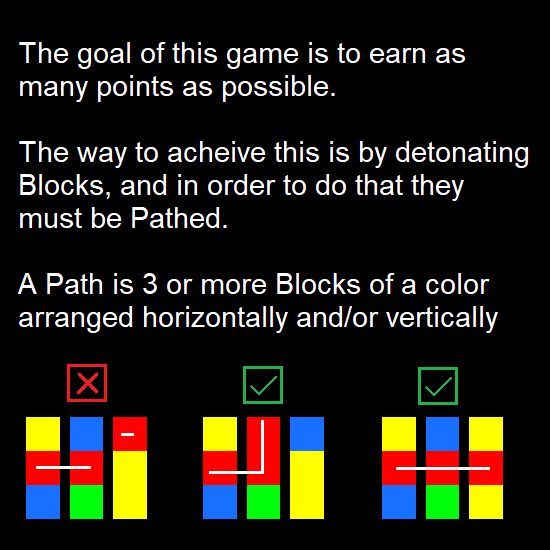
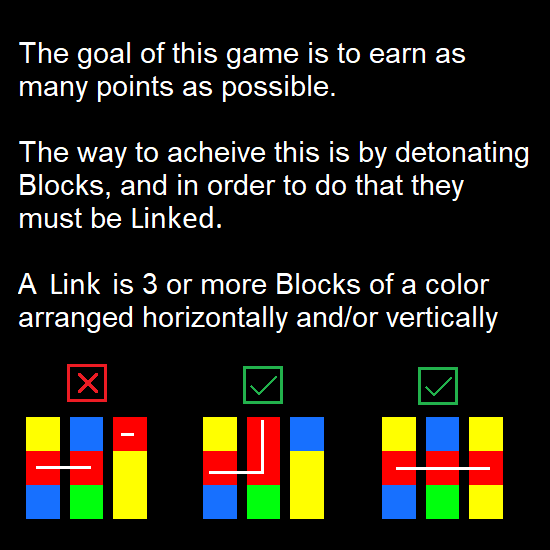
fixed some tutorials

Changed region(s): [[0.2164, 0.3709, 0.4018, 0.4327], [0.0618, 0.4945, 0.1855, 0.5564]]

diff --git a/Assets/Scripts/UI/block_queue.cs b/Assets/Scripts/UI/block_queue.cs
@@ -27,7 +27,7 @@ public class block_queue : MonoBehaviour
     public List<GameObject> colms = new List<GameObject>();
     private Extras.Utilites util;
     public string Game_Mode = "Game";
-    private string[] condition = new string[] { "", "" };
+    private string[] condition = new string[] { "", "" }, tutorial_text;
     // Start is called before the first frame update
     void Start()
     {
@@ -50,6 +50,7 @@ public class block_queue : MonoBehaviour
 
         if(Game_Mode == "Training")
         {
+            tutorial_text = util.LoadTutText();
             GetTrial(1);
         }
 
@@ -122,7 +123,9 @@ public class block_queue : MonoBehaviour
         var list = util.Load(number);
         int c_n = 5;
         condition = list[list.Count - 1];
-        
+
+        GameObject.Find("tut").GetComponent<Tutorial>().SetText(tutorial_text[number-1]);
+
         for (int i = 0; i < colms.Count; i++)
         {
             colms[i].GetComponent<column>().DestoryBlocks();
@@ -215,6 +218,7 @@ public class block_queue : MonoBehaviour
         yield return new WaitForSeconds(3f);
         GameObject.Find("pic").transform.position = new Vector3(-5f, -3.1f, 1);
         trialNumber += 1;
+        GameObject.Find("tut").GetComponent<Tutorial>().NextImage();
         GetTrial(trialNumber);       
         scorer.GetComponent<scorer>().Reset(0);
 

diff --git a/Assets/Scripts/UI/scorer.cs b/Assets/Scripts/UI/scorer.cs
@@ -26,7 +26,7 @@ public class scorer : MonoBehaviour
     {        
         if(last_chn < x)
         {
-            chain.text = x.ToString() + "X CHAIN";
+            chain.text = x.ToString() + "X LINK";
 
         }
     }
@@ -36,6 +36,7 @@ public class scorer : MonoBehaviour
     }   
     public void Reset(int x)
     {
+        score = 0;
         txt.text = x.ToString();
         com = 0;
         combo.text = com.ToString();
@@ -52,14 +53,14 @@ public class scorer : MonoBehaviour
             chain.gameObject.SetActive(false);
         }
 
-        c_c -= 0.12f;
+        c_c -= 0.08f;
 
         if (c_c > 0)
         {
             if (com >= 2)
             {
                 combo.gameObject.SetActive(true);
-                combo.text = com + "x combo";
+                combo.text = com + "X COMBO";
             }
             chain.gameObject.SetActive(true);
         }

diff --git a/Assets/Tutorial.cs b/Assets/Tutorial.cs
@@ -3,18 +3,23 @@ using System.Collections.Generic;
 using UnityEngine;
 using TMPro;
 
-public class Tutorial_Images : MonoBehaviour
+public class Tutorial : MonoBehaviour
 {
-    public Sprite[] sprs = new Sprite[2];
+    public Sprite[] sprs = new Sprite[5];
     int current_image = 0;
     SpriteRenderer spr_renderer;
-    TextMeshProUGUI tut_text;
+    public TextMeshProUGUI tut_text;
     // Start is called before the first frame update
     void Start()
     {
         spr_renderer = GetComponent<SpriteRenderer>();
         tut_text = GameObject.Find("tutorial").GetComponent<TextMeshProUGUI>();
         tut_text.enabled = false;
+    }
+
+    public void SetText(string text)
+    {
+        tut_text.text = text;
     }
 
     public void NextImage()

diff --git a/Assets/Scripts/Util/Extras.cs b/Assets/Scripts/Util/Extras.cs
@@ -10,13 +10,13 @@ namespace Extras
 {
     public class Utilites
     {
-        public List<string[]> LoadTutText()
+        public string[] LoadTutText()
         {
             var textData = File.ReadAllText($"Assets/Data/Tut Text.txt");
             List<string[]> xy = new List<string[]>();
-            var arr = textData.Split('|').ToArray();
+            return textData.Split('|').ToArray();
 
-            return xy;
+            //return xy;
         }
         public List<string[]> Load(int number)
         {

diff --git a/Assets/Scripts/Blocks/block.cs b/Assets/Scripts/Blocks/block.cs
@@ -154,7 +154,7 @@ public class block : MonoBehaviour
 
             if (len >= 4)
             {
-                FindObjectOfType<scorer>().UpdateScore((int)Math.Pow(combo * touching.ToArray().Length * .75, 5));
+                FindObjectOfType<scorer>().UpdateScore((int)Math.Pow(combo * touching.ToArray().Length, 5));
                 FindObjectOfType<scorer>().UpdateChain(len);
                 return 1;
             }
